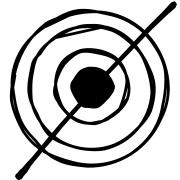
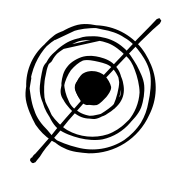
feat(pwa): better pwa experience
add service-worker
fix manifest
add maskable icon

Changed region(s): [[0.0278, 0.0, 1.0, 1.0]]

diff --git a/src/service-worker.ts b/src/service-worker.ts
@@ -1,0 +1,15 @@
+import { build, files, timestamp } from "$service-worker";
+import { precacheAndRoute, cleanupOutdatedCaches } from "workbox-precaching";
+import { clientsClaim } from "workbox-core";
+import type { PrecacheEntry } from "workbox-precaching/_types";
+
+const worker = self as unknown as ServiceWorkerGlobalScope;
+
+worker.skipWaiting();
+clientsClaim();
+
+const built: PrecacheEntry[] = build.map((url) => ({ url, revision: null }));
+const statics: PrecacheEntry[] = files.map((url) => ({ url, revision: `${timestamp}` }));
+
+precacheAndRoute(statics.concat(built));
+cleanupOutdatedCaches();

diff --git a/src/app.html b/src/app.html
@@ -9,6 +9,7 @@
     <link rel="apple-touch-icon" href="/apple-touch-icon.png" />
     <link rel="manifest" href="/manifest.webmanifest" />
     <meta name="viewport" content="width=device-width, initial-scale=1" />
+    <meta name="theme-color" content="#000" />
     <link rel="preload" href="/Inter.var.v3.19.woff2" as="font" crossorigin />
     %svelte.head%
   </head>
